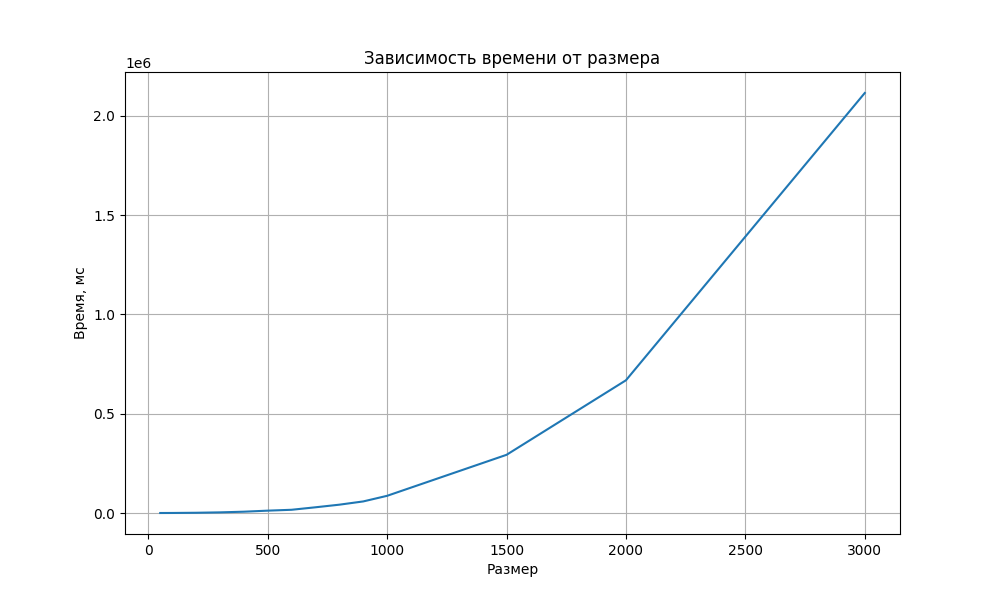
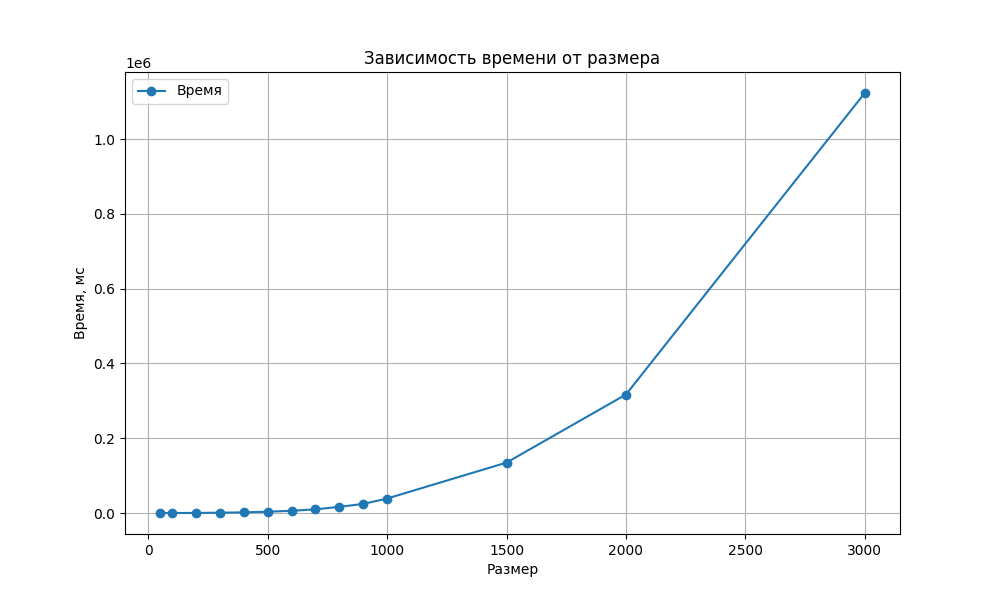
Count on equal IDE

diff --git a/report.md b/report.md
@@ -1,7 +1,7 @@
-## Отчет по лабораторной работе №1 
+## Отчет по лабораторной работе №1
 
-### Задание на лабораторную работу: 
-   Написать программу на языке C/C++ для перемножения двух матриц.
+### Задание на лабораторную работу:
+Написать программу на языке C/C++ для перемножения двух матриц.
 Исходные данные: файл(ы) содержащие значения исходных матриц.
 Выходные данные: файл со значениями результирующей матрицы, время
 выполнения, объем задачи.
@@ -12,28 +12,28 @@
 * [lab1.cpp](lab1.cpp) - основное задание: генерация, запись/чтение матриц из файла и их умножение
 * [check_result.py](check_result.py) - модуль с функцией верификации полученный результатов с помощью библиотеки numpy
 * [data](data) - папка со всеми сгенерированными матрицами, результатами умножения и статистикой (изначально данной папки не было и она создана только при выгрузке на гитхаб, для лучшей читаемости репозитория)
-  
-### Результаты экспериментов и выводы: 
-Полученная статистика представлена ниже: 
+
+### Результаты экспериментов и выводы:
+Полученная статистика представлена ниже:
 
 |Размер|Время, мс|
 |------------:|-------:|
-|50	|64.1252|
-|100|	251.836|
-|200|	1259.53|
-|300|	3248.45|
-|400|	6585.53|
-|500|	11864.6|
-|600|	16290.9|
-|700|	28816.4|
-|800|	41952.7|
-|900|	58298.9|
-|1000|	86599.3|
-|1500|	292958|
-|2000|	668179|
-|3000|	2.11449e+06|
+|50	|7.2928|
+|100|	33.525|
+|200|	217.177|
+|300|	802.646|
+|400|	1753.52|
+|500|	3417.45|
+|600|	5897.9|
+|700|	9745.44|
+|800|	16514.9|
+|900|	24259.4|
+|1000|	38733.8|
+|1500|	134770|
+|2000|	316832|
+|3000|	1.1231e+06|
 
-График: 
+График:
 
 ![График](graphic_1.png)
 
